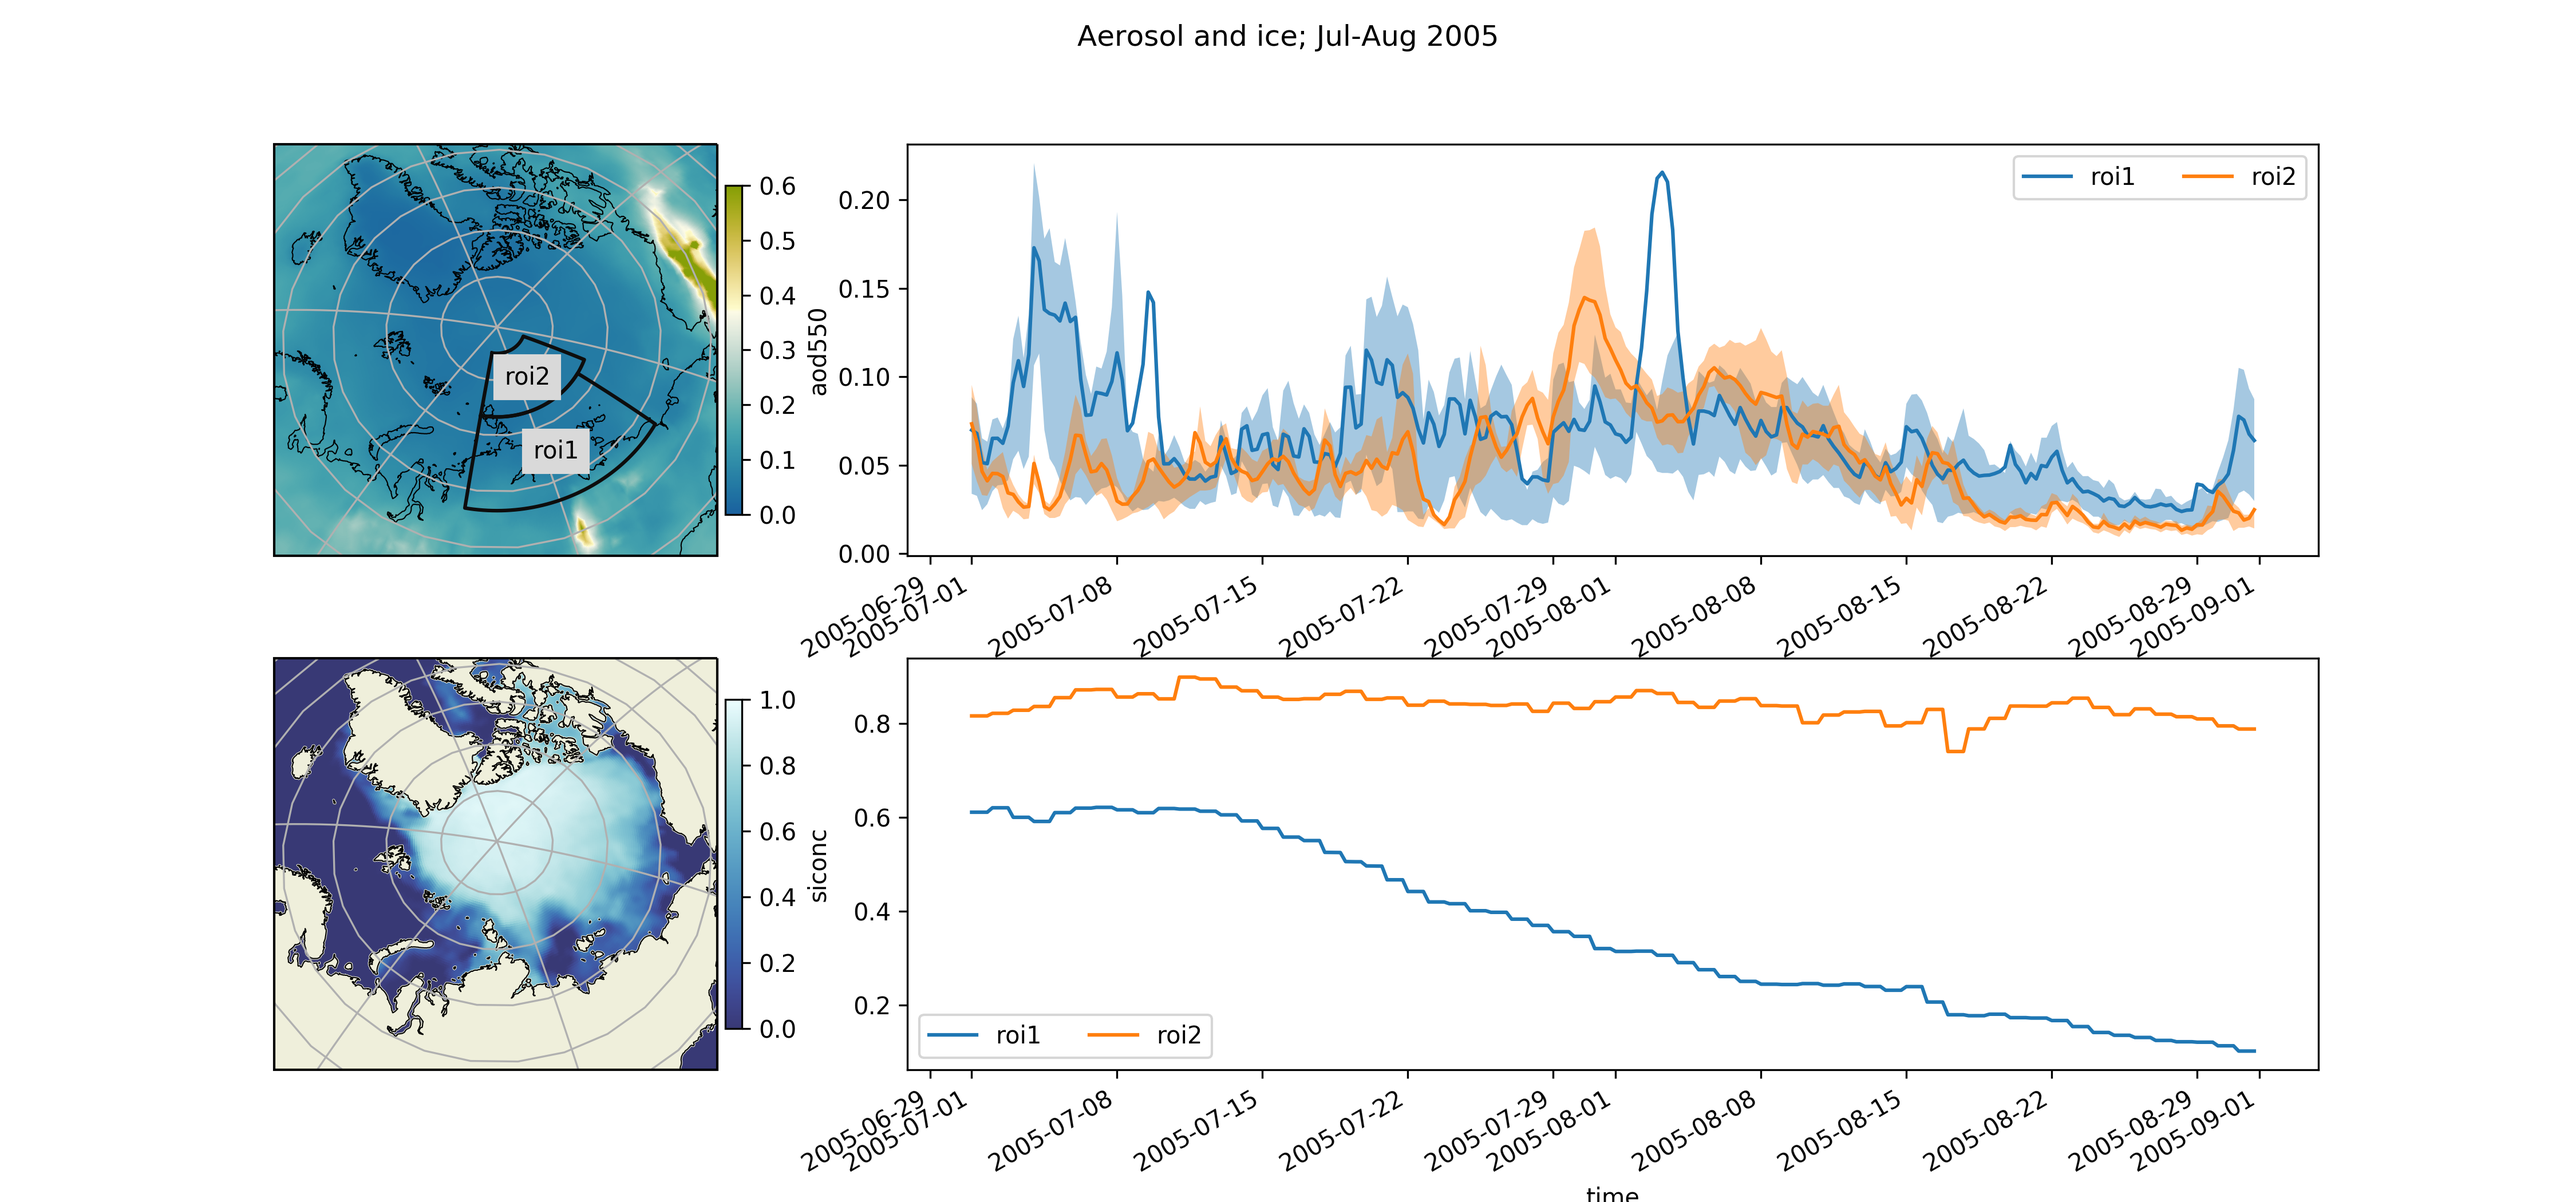
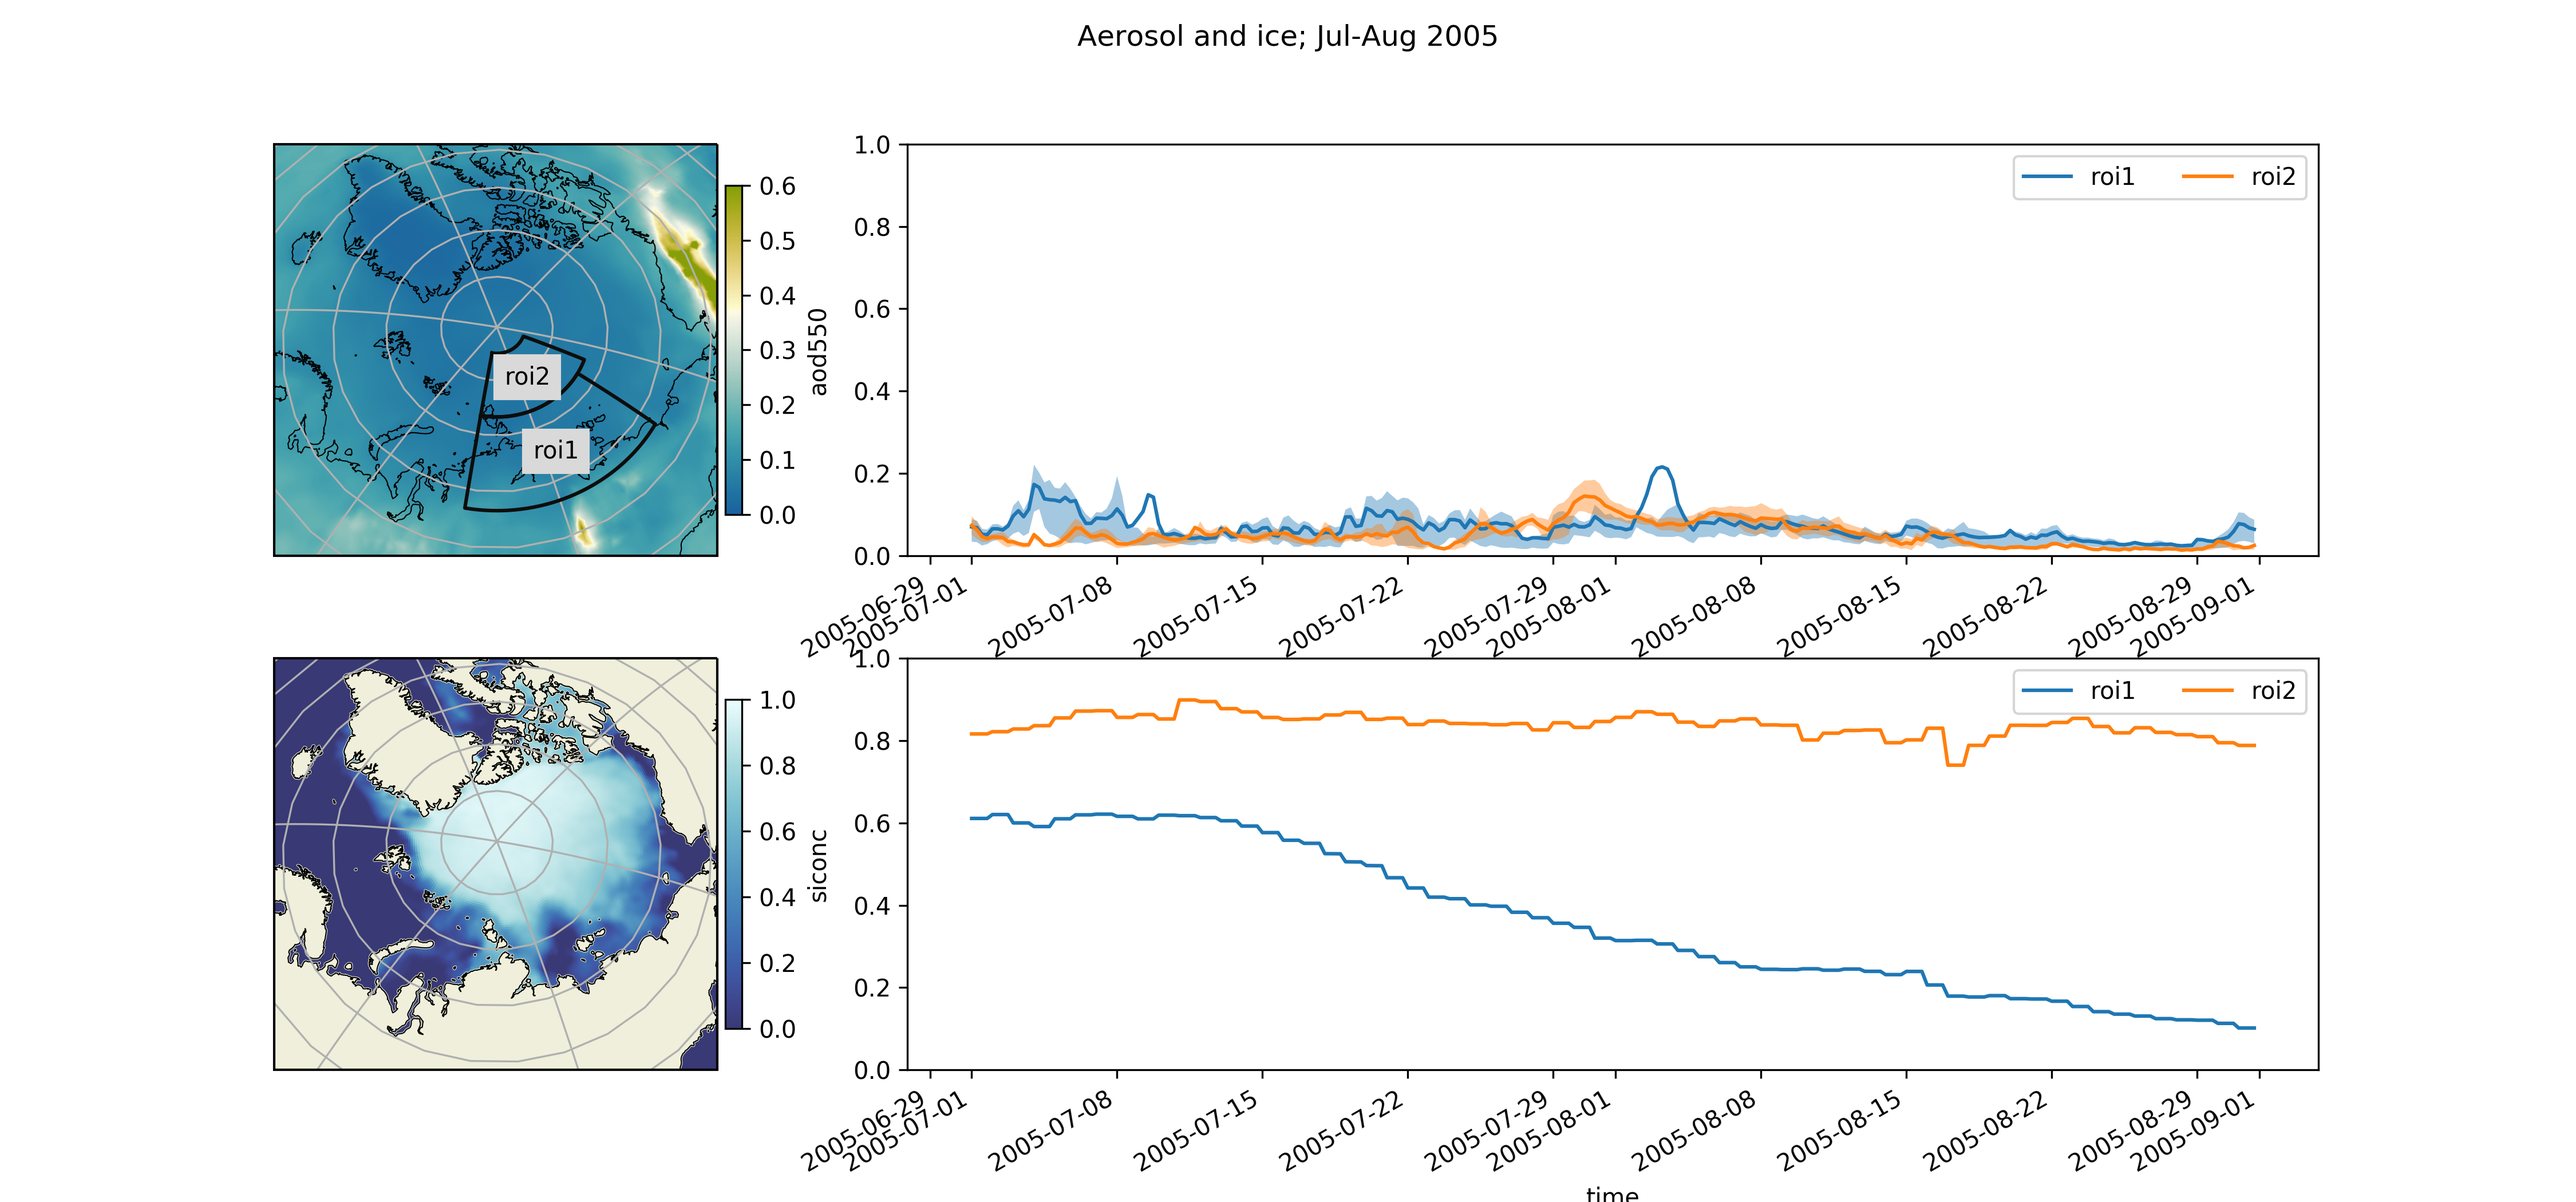
update figure examples

diff --git a/cams_visu/utils.py b/cams_visu/utils.py
@@ -1,0 +1,204 @@
+import numpy as np
+import pandas as pd
+
+from rasterio import features
+from affine import Affine
+import xarray as xr
+
+import matplotlib.pyplot as plt
+
+
+def get_time(ds, key='start_date'):
+    if key in ds.attrs.keys():
+        grid_time = pd.to_datetime(ds.attrs[key])
+        return ds.assign(time=grid_time)
+    raise ValueError("Time attribute missing: {0}".format(key))
+
+
+def wktbox(center_lon, center_lat, width=100, height=100, ellps='WGS84'):
+    '''
+
+    :param center_lon: decimal longitude
+    :param center_lat: decimal latitude
+    :param width: width of the box in m
+    :param height: height of the box in m
+    :return: wkt of the box centered on provided coordinates
+    '''
+    from math import sqrt, atan, pi
+    import pyproj
+    geod = pyproj.Geod(ellps=ellps)
+
+    rect_diag = sqrt(width ** 2 + height ** 2)
+
+    azimuth1 = atan(width / height)
+    azimuth2 = atan(-width / height)
+    azimuth3 = atan(width / height) + pi  # first point + 180 degrees
+    azimuth4 = atan(-width / height) + pi  # second point + 180 degrees
+
+    pt1_lon, pt1_lat, _ = geod.fwd(center_lon, center_lat, azimuth1 * 180 / pi, rect_diag)
+    pt2_lon, pt2_lat, _ = geod.fwd(center_lon, center_lat, azimuth2 * 180 / pi, rect_diag)
+    pt3_lon, pt3_lat, _ = geod.fwd(center_lon, center_lat, azimuth3 * 180 / pi, rect_diag)
+    pt4_lon, pt4_lat, _ = geod.fwd(center_lon, center_lat, azimuth4 * 180 / pi, rect_diag)
+
+    wkt_point = 'POINT (%.6f %.6f)' % (center_lon, center_lat)
+    wkt_poly = 'POLYGON (( %.6f %.6f, %.6f %.6f, %.6f %.6f, %.6f %.6f, %.6f %.6f ))' % (
+        pt1_lon, pt1_lat, pt2_lon, pt2_lat, pt3_lon, pt3_lat, pt4_lon, pt4_lat, pt1_lon, pt1_lat)
+    return wkt_poly
+
+
+def transform_from_latlon(lat, lon):
+    lat = np.asarray(lat)
+    lon = np.asarray(lon)
+    trans = Affine.translation(lon[0], lat[0])
+    scale = Affine.scale(lon[1] - lon[0], lat[1] - lat[0])
+    return trans * scale
+
+
+def rasterize(shapes, coords, latitude='lat', longitude='lon',
+              fill=np.nan, **kwargs):
+    """Rasterize a list of (geometry, fill_value) tuples onto the given
+    xray coordinates. This only works for 1d latitude and longitude
+    arrays.
+
+    usage:
+    -----
+    1. read shapefile to geopandas.GeoDataFrame
+          `states = gpd.read_file(shp_dir)`
+    2. encode the different shapefiles that capture those lat-lons as different
+        numbers i.e. 0.0, 1.0 ... and otherwise np.nan
+          `shapes = (zip(states.geometry, range(len(states))))`
+    3. Assign this to a new coord in your original xarray.DataArray
+          `ds['states'] = rasterize(shapes, ds.coords, longitude='X', latitude='Y')`
+
+    arguments:
+    ---------
+    : **kwargs (dict): passed to `rasterio.rasterize` function
+
+    attrs:
+    -----
+    :transform (affine.Affine): how to translate from latlon to ...?
+    :raster (numpy.ndarray): use rasterio.features.rasterize fill the values
+      outside the .shp file with np.nan
+    :spatial_coords (dict): dictionary of {"X":xr.DataArray, "Y":xr.DataArray()}
+      with "X", "Y" as keys, and xr.DataArray as values
+
+    returns:
+    -------
+    :(xr.DataArray): DataArray with `values` of nan for points outside shapefile
+      and coords `Y` = latitude, 'X' = longitude.
+
+
+    """
+    # transform = transform_from_latlon(coords[latitude], coords[longitude])
+    out_shape = (len(coords[latitude]), len(coords[longitude]))
+    raster = features.rasterize(shapes, out_shape=out_shape,
+                                fill=fill,  # transform=transform,
+                                dtype=float, **kwargs)
+    spatial_coords = {latitude: coords[latitude], longitude: coords[longitude]}
+    return xr.DataArray(raster, coords=spatial_coords, dims=(latitude, longitude))
+
+
+class data:
+    def __init__(self):
+        pass
+
+    def format_df(self, df, vars, wl):
+        h1 = df.columns.get_level_values(0) + '_' + df.columns.get_level_values(1)
+        h2 = df.columns.get_level_values(0).str.replace('_.*', '') + '_' + df.columns.get_level_values(1)
+        h3 = df.columns.get_level_values(0)
+        for band, num in reversed(list(zip(vars, wl))):
+            h3 = h3.str.replace(band, str(num))
+        h3 = pd.to_numeric(h3, errors='coerce')
+
+        tuples = list(zip(h1, h2, h3))
+        df.columns = pd.MultiIndex.from_tuples(tuples, names=['l0', 'l1', 'l2'])
+        return df
+
+    def read_aeronet_ocv3(self, file, skiprows=8):
+        ''' Read and format in pandas data.frame the standard AERONET-OC data '''
+        self.file = file
+        dateparse = lambda x: pd.datetime.strptime(x, "%d:%m:%Y %H:%M:%S")
+        ifile = self.file
+
+        h1 = pd.read_csv(ifile, skiprows=skiprows - 1, nrows=1).columns[3:]
+        h1 = np.insert(h1, 0, 'site')
+        data_type = h1.str.replace('\[.*\]', '')
+        data_type = data_type.str.replace('Exact_Wave.*', 'wavelength')
+        # convert into float to order the dataframe with increasing wavelength
+        h2 = h1.str.replace('.*\[', '')
+        h2 = h2.str.replace('nm\].*', '')
+        h2 = h2.str.replace('Exact_Wavelengths\(um\)_', '')
+        h2 = pd.to_numeric(h2, errors='coerce')  # h2.str.extract('(\d+)').astype('float')
+        h2 = h2.fillna('').T
+        df = pd.read_csv(ifile, skiprows=skiprows, na_values=['N/A', -999.0, -9.999999], parse_dates={'date': [1, 2]},
+                         date_parser=dateparse, index_col=False)
+
+        # df['site'] = site
+        # df.set_index(['site', 'date'],inplace=True)
+        df.set_index('date', inplace=True)
+
+        tuples = list(zip(h1, data_type, h2))
+        df.columns = pd.MultiIndex.from_tuples(tuples, names=['l0', 'l1', 'l2'])
+        df = df.dropna(axis=1, how='all').dropna(axis=0, how='all')
+        df.columns = pd.MultiIndex.from_tuples([(x[0], x[1], x[2]) for x in df.columns])
+        df.sort_index(axis=1, level=2, inplace=True)
+        return df
+
+
+class plot:
+    def __init__(self):
+        pass
+
+    def plot_wrap(self, data, ofig=None, title='', cmap='viridis', **kwargs):
+
+        # fig, (ax, cax) = plt.subplots(nrows=2, figsize=(15, 35),
+        #                               gridspec_kw={"height_ratios": [1, 0.05]})
+
+        nimg = data.time.shape[0]
+        nrows= nimg//4 + (1 if nimg % 4 else 0)
+        if nimg == 1:
+            p = data.isel().plot(x='lon', y='lat', robust=True, size=10, cmap=cmap,
+                                 cbar_kwargs=dict(orientation='horizontal', pad=.1, aspect=40, shrink=0.6), **kwargs)
+        else:
+            p = data.isel().plot(x='lon', y='lat', col='time', col_wrap=min(nimg,4), robust=True, size=10, cmap=cmap,
+                                 vmin=0,cbar_kwargs=dict(orientation='horizontal', pad=.1, aspect=40, shrink=0.6), **kwargs)
+            for i, ax in enumerate(p.axes.flat):
+                if i >= data.time.shape[0]:
+                    break
+                ax.set_title(pd.to_datetime(data.time[i].values))
+            p.cbar.remove()
+            p.fig.set_size_inches(15, nrows * 6)
+            p.fig.suptitle(title)
+            p.fig.subplots_adjust(bottom=0.1, top=0.9, left=0.08, right=0.92, wspace=0.02, hspace=0.2)
+            p.add_colorbar(orientation='horizontal', pad=.1, aspect=40, shrink=0.6,anchor=(0,1))
+
+            if ofig != None:
+                p.fig.savefig(ofig)
+        return p
+
+    def _plot_image(self, data, factor=2.5, vmax=1, title=None, cmap=None, filename=None):
+        rows = data.shape[0] // 5 + (1 if data.shape[0] % 5 else 0)
+        aspect_ratio = (1.0 * data.shape[1]) / data.shape[2]
+        fig, axs = plt.subplots(nrows=rows, ncols=5, figsize=(15, 3 * rows * aspect_ratio))
+        for index, ax in enumerate(axs.flatten()):
+            if index < data.shape[0] and index < len(data.time):
+                time = pd.to_datetime(data.time[index].values)
+                caption = str(index) + ': ' + time.strftime('%Y-%m-%d')
+                # if self.cloud_coverage is not None:
+                #     caption = caption + '(' + "{0:2.0f}".format(self.cloud_coverage[index] * 100.0) + '%)'
+
+                ax.set_axis_off()
+                im = ax.imshow(data[index] * factor if data[index].shape[-1] == 3 or data[index].shape[-1] == 4 else
+                               data[index] * factor, cmap=cmap, vmin=0.0, vmax=vmax, interpolation='nearest')
+                ax.text(0, -2, caption, fontsize=12)  # , color='r') if self.mask[index] else 'g')
+            else:
+                ax.set_axis_off()
+        fig.subplots_adjust(bottom=0.1, top=0.95, left=0.05, right=0.85,
+                            wspace=0.02, hspace=0.2)
+        cbar = fig.colorbar(im, ax=axs.ravel().tolist(), shrink=0.95)
+
+        fig.suptitle(title, fontsize=18)
+
+        if filename:
+            plt.savefig(filename)  # , bbox_inches='tight')
+            plt.close()

diff --git a/cams_visu/plot_cams.py b/cams_visu/plot_cams.py
@@ -14,6 +14,7 @@ import xarray as xr
 import regionmask
 
 from matplotlib.backends.backend_pdf import PdfPages
+from cams_visu import utils as u
 
 generate_daily = False
 ofig = './figures'
@@ -34,6 +35,10 @@ aspect_ratio = 1
 years = np.arange(2004, 2018)
 rows = len(years)
 fig_clima, axs_clima = plt.subplots(nrows=rows, ncols=3, figsize=(15, 4 * rows * aspect_ratio))
+
+# files = os.path.join(idir, 'cams_artic_jul_aug_*.nc')
+# ds = xr.open_mfdataset(files, concat_dim='time', preprocess=u.get_time, mask_and_scale=True, engine='netcdf4')
+
 
 for idx, year in enumerate(years):
     file = os.path.join(idir, 'cams_artic_jul_aug_' + str(year) + '.nc')
@@ -141,7 +146,7 @@ for idx, year in enumerate(years):
     ts_aod_roi2.plot(label='roi2')
     plt.fill_between(ts_aod_roi2.time.values, ts_aod25_roi2.values, ts_aod75_roi2.values, alpha=.4)
     plt.legend(ncol=2)
-
+    plt.ylim([0,1])
     # ----- ice
     ax = plt.subplot(G[1, :3], projection=crs)
     ax.set_extent(extent, crs=ccrs.PlateCarree())
@@ -149,6 +154,7 @@ for idx, year in enumerate(years):
     ax.grid()
     ax.gridlines()
     ax.coastlines('50m', linewidth=0.5)
+
 
     # mask.plot(ax=ax, regions=[0, 1], add_ocean=False, coastlines=False, label='abbrev', )
     p = ice_mean.plot(ax=ax, transform=ccrs.PlateCarree(), cmap=cice, cbar_kwargs=dict(pad=.01, aspect=20, shrink=0.8))
@@ -159,6 +165,7 @@ for idx, year in enumerate(years):
     ts_ice_roi2.plot(label='roi2')
     # plt.fill_between(ts_ice_roi2.time.values, ts_ice25_roi2.values, ts_ice75_roi2.values, alpha=.4)
     plt.legend(ncol=2)
+    plt.ylim([0, 1])
     plt.suptitle('Aerosol and ice; Jul-Aug ' + str(year))
     plt.savefig(os.path.join(ofig, 'aot_ice_from_cams_era5_artic_' + str(year) + '.png'), dpi=300)
     plt.close()
